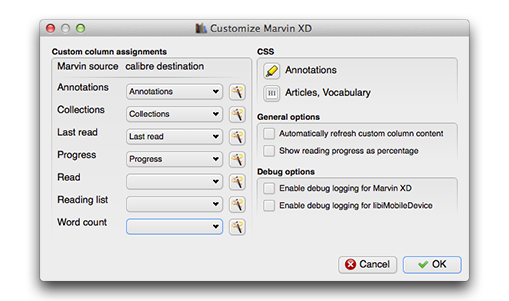
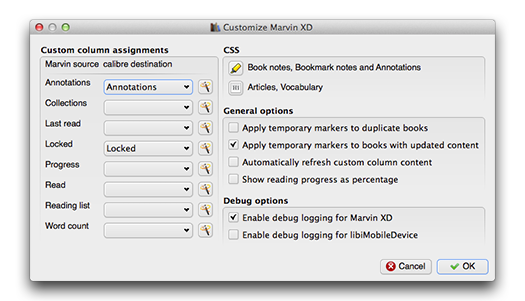
Edit config dialog wording for CSS appearance. Updated Help file.

Changed region(s): [[0.0295, 0.0598, 0.9725, 0.9867]]

diff --git a/help/help.html b/help/help.html
@@ -89,18 +89,24 @@
 	font-size: small;
 	text-align: left;
     }
-    tr.gray {
-        background-color: #E5E5E5;
-        font-family:"Lucida Console", Monaco, monospace;
-        font-size:smaller;
-    }
-    tr.magenta {
-        background-color: #FF99E5;
+    tr.dark_gray {
+        background-color: #989898;
+		color:white;
         font-family:"Lucida Console", Monaco, monospace;
         font-size:smaller;
     }
     tr.green {
         background-color: #99FF99;
+        font-family:"Lucida Console", Monaco, monospace;
+        font-size:smaller;
+    }
+    tr.light_gray {
+        background-color: #D8D8D8;
+        font-family:"Lucida Console", Monaco, monospace;
+        font-size:smaller;
+    }
+    tr.magenta {
+        background-color: #FF99E5;
         font-family:"Lucida Console", Monaco, monospace;
         font-size:smaller;
     }
@@ -162,10 +168,10 @@
 		  <li>Calculate word counts for one or multiple books.</li>
 		  <li>Generate Deep View  lists of names, dates, events and places.</li>
 		  <li>Show reading progress, date last read.</li>
-		  <li>Manage <strong>New</strong>, <strong>Reading list</strong> and <strong>Read</strong> flags, and Locked status of books in your Marvin library.</li>
+		  <li>Manage <strong>Ratings, New</strong>, <strong>Reading list</strong> and <strong>Read</strong> flags, and Locked status of books in your Marvin library.</li>
 		  <li>View annotations, vocabulary words, Deep View content and pinned articles.</li>
 		  <li>Manage collection assignments, including creating, renaming and deleting collections.</li>
-		  <li>Transfer reading progress,  last read and word counts from Marvin to calibre custom columns.</li>
+		  <li>Transfer reading progress,  last read, locked and word counts from Marvin to calibre custom columns.</li>
 	  </ul>
 	</div>
   <hr />
@@ -175,11 +181,13 @@
 <div class="topic">
 <h3><a name="configuration" id="configuration"></a>2. <a href="#toc">Configuration</a></h3>
 <p>Open the context menu for the Marvin XD icon (right-click the icon or click the down arrow), then click <strong>Customize plugin</strong> to display the <strong>Customize Marvin XD</strong> dialog.<img src="images/config.png" alt="" class="inline" /></p>
-<p>The<strong> Custom columns assignments</strong> section connects  Marvin  details to custom columns in calibre. For example, by selecting a custom column in calibre for Collections, you can synchronize collection assignments between calibre and Marvin. You may  specify custom columns for <em>Annotations</em>, <em>Collections</em>, <em>Last read</em>, <em>Progress</em>, <em>Read</em>, <em>Reading list</em> and <em>Word count</em>, enabling you to synchronize those Marvin details to calibre.</p>
+<p>The<strong> Custom column assignments</strong> section connects  Marvin  details to custom columns in calibre. For example, by selecting a custom column in calibre for Collections, you can synchronize collection assignments between calibre and Marvin. You may  specify custom columns for <em>Annotations</em>, <em>Collections</em>, <em>Last read</em>, <em>Locked, Progress</em>, <em>Read</em>, <em>Reading list</em> and <em>Word count</em>.</p>
 <p>Clicking the combo box presents a list of existing custom columns eligible for use with the associated Marvin details.</p>
 <p>Clicking the Wizard button leads you through the steps to create a new custom column, or renames an existing custom column.</p>
 <p><strong>CSS:</strong> Click the <strong>Annotations</strong> button to customize the CSS applied to Annotations. Click the <strong>Articles, Vocabulary</strong> button to customize the CSS applied to Articles and Vocabulary.</p>
-<p><strong>General options:</strong> <strong>Automatically refresh custom column content</strong>: When checked,  enabled custom column content will be synchronized upon opening Marvin XD for all books installed in Marvin that are also in your calibre library.<br />
+<p><strong>General options:</strong> <strong>Apply temporary markers to duplicate books</strong>: When checked, books in Marvin determined to be duplicates of books in calibre will be marked.<br />
+  <strong>Apply temporary markers to books with updated content</strong>: When checked, books with matching metadata but differing content will be marked.<br />
+  <strong>Automatically refresh custom column content</strong>: When checked,  enabled custom column content will be synchronized upon opening Marvin XD for all books installed in Marvin that are also in your calibre library.<br />
   <strong>Show reading progress as percentage: </strong>When checked<strong>,</strong> displays reading progress as a numeric percentage. When unchecked, reading progress is shown as a series of dots.</p> 
 <p><strong>Debug options: Enable debug logging for Marvin XD, </strong><strong>Enable debug logging for libiMobileDevice</strong>: If you are having a problem with the plugin, you may be asked to enable one or both of these checkboxes, then restart calibre in debug mode from a terminal window to generate a debug log. </p>
 <p>To start calibre in debug mode, type <tt>calibre-debug -g</tt> in a terminal window.</p>
@@ -197,16 +205,6 @@
       <td>in calibre library</td>
       <td>Match status</td>
     </tr>
-    <tr class="gray">
-      <td>Gray</td>
-      <td class="checked">&#x2713;</td>
-      <td>Installed in calibre and Marvin, no match found.</td>
-    </tr>
-    <tr class="magenta">
-      <td>Magenta</td>
-      <td class="checked">multiple</td>
-      <td>Installed in calibre and Marvin, more than one copy in calibre.</td>
-    </tr>
     <tr class="green">
       <td>Green</td>
       <td class="checked">&#x2713;</td>
@@ -217,20 +215,35 @@
       <td class="checked">&#x2713;</td>
       <td>Installed in calibre and Marvin, some metadata differences.</td>
     </tr>
+    <tr class="magenta">
+      <td>Magenta</td>
+      <td class="checked">multiple</td>
+      <td>Installed in calibre and Marvin, more than one copy in calibre.</td>
+    </tr>
     <tr class="orange">
       <td>Orange</td>
       <td class="checked">&#x2713;</td>
       <td>Installed in calibre and Marvin, more than one copy in Marvin.</td>
     </tr>
+    <tr class="light_gray">
+      <td>Light Gray</td>
+      <td class="checked">&#x2713;</td>
+      <td>Installed in calibre and Marvin, but no match found.</td>
+    </tr>
+    <tr class="dark_gray">
+      <td>Dark Gray</td>
+      <td class="checked">&#x2713;</td>
+      <td>Installed in calibre and Marvin, book contents updated in Marvin.</td>
+    </tr>
     <tr class="white">
       <td>White</td>
       <td class="checked">&nbsp;</td>
-      <td>Installed in Marvin. The book is not in your calibre library.</td>
+      <td>Installed in Marvin only.</td>
     </tr>
     <tr class="red">
       <td>Red</td>
       <td class="checked">&nbsp;</td>
-      <td>More than one copy in Marvin. The book is not in your calibre library.</td>
+      <td>More than one copy installed in Marvin.</td>
     </tr>
   </table>
   <p>Click <img src="images/hide_matches.png" alt="" align="absmiddle" /> to return to the regular display listing.</p>
@@ -240,15 +253,15 @@
 <div class="topic">
 <h3><a name="scenarios" id="scenarios"></a>4. <a href="#toc">FAQs</a></h3>
 <div class="usage">
-  <p class="usage-topic">How does the Marvin XD plugin relate to the iOS reader applications driver? Do I still need it?</p>
-<p class="usage-explanation">Yes, you still need the iOS reader applications driver configured with Marvin as your preferred iOS reader application. Marvin XD communicates with the regular driver to accomplish its tasks. Marvin XD offers many more features than a conventional device driver. You should be able to accomplish all Marvin tasks through Marvin XD.</p>
+  <p class="usage-topic">How does the Marvin XD plugin relate to the iOS reader applications driver? Do I need both plugins?</p>
+<p class="usage-explanation">Yes, you  need the iOS reader applications driver (iOSRA) configured with Marvin as your preferred iOS reader application. Marvin XD communicates with the iOSRA driver to accomplish its tasks. Marvin XD offers many more features than a conventional device driver. You should be able to accomplish all Marvin tasks through Marvin XD.</p>
 </div>
 <hr />
 
 <div class="usage">
 <p class="usage-topic">I see lots of books with yellow backgrounds when showing match status. Is that bad?</p>
-<p class="usage-explanation">No, that's good! Yellow means that the book content is the same between calibre and Marvin, but there are some metadata differences. The differences could be as minor as a difference in the title, or perhaps you have applied a new cover in Marvin. </p>
-<p class="usage-explanation">To compare the metadata, double-click the title to open the Metadata window. To make the books match exactly, choose which metadata you want to use, and apply it. The changes are applied immediately.</p>
+<p class="usage-explanation">No, that's good! Yellow means that the book content is the same between calibre and Marvin, but there are some metadata differences. The differences could be as minor as a difference in the title, or perhaps an updated cover. </p>
+<p class="usage-explanation">To compare the metadata, double-click the title to open the Metadata window. To make the books match exactly, choose which metadata you want to use, and apply it. Changes are applied immediately.</p>
 </div>
 <hr />
 
@@ -321,7 +334,7 @@
   </tr>
   <tr class="action">
     <td>Add annotations to a  custom column</td>
-    <td>Fetch  annotations from Marvin, apply to  custom column specified for Annotations (in configuration dialog). Applies to selected books.</td>
+    <td>Fetch  notes and annotations from Marvin, apply to  custom column specified for Annotations (in configuration dialog). Applies to selected books.</td>
     <td><ul>
       <li>Annotations context menu</li>
     </ul></td>
@@ -342,7 +355,7 @@
     </ul></td>
   </tr>
   <tr class="action">
-    <td>Apply last read date to a calibre  column</td>
+    <td>Apply last read date to a calibre column</td>
     <td>Apply last read date to custom column specified for Last read (in configuration dialog). Applies to selected books.</td>
     <td><ul>
       <li>Last read double-click</li>
@@ -350,7 +363,14 @@
     </ul></td>
   </tr>
   <tr class="action">
-    <td>Apply reading progress to a  custom column</td>
+    <td>Apply rating</td>
+    <td>Apply rating (0-5 stars) to selected books. If book is matched in calibre, rating will also be applied to calibre metadata.</td>
+    <td><ul>
+      <li>Rating context menu</li>
+    </ul></td>
+  </tr>
+  <tr class="action">
+    <td>Apply reading progress to a custom column</td>
     <td>Apply reading progress to custom column specified for Progress (in configuration dialog). Applies to selected books. Books flagged as <strong>New</strong> will have no reading progress; books flagged as <strong>Read</strong> will have 100% reading progress.</td>
     <td><ul>
       <li>Progress double-click</li>
@@ -514,7 +534,7 @@
   </tr>
   <tr class="action">
     <td>Refresh  custom columns</td>
-    <td>Apply contents of Progress, Last read and Annotations columns to  custom columns (assigned in configuration dialog) for selected books. You may also enable automatic refresh of custom column content in the plugin's configuration dialog.</td>
+    <td>Apply contents of Progress, Last read, Locked and Annotations columns to  custom columns (assigned in configuration dialog) for selected books. You may also enable automatic refresh of custom column content in the plugin's configuration dialog.</td>
     <td><ul>
       <li>Main window button</li>
       <li>Configuration dialog</li>

diff --git a/config.py b/config.py
@@ -286,7 +286,7 @@ class ConfigWidget(QWidget, Logger):
         self.cfg_annotations_appearance_toolbutton.setIcon(self.annotations_icon)
         self.cfg_annotations_appearance_toolbutton.clicked.connect(self.configure_appearance)
         self.cfg_css_options_qgl.addWidget(self.cfg_annotations_appearance_toolbutton, current_row, 0)
-        self.cfg_annotations_label = ClickableQLabel("Annotations")
+        self.cfg_annotations_label = ClickableQLabel("Book notes, Bookmark notes and Annotations")
         self.connect(self.cfg_annotations_label, SIGNAL('clicked()'), self.configure_appearance)
         self.cfg_css_options_qgl.addWidget(self.cfg_annotations_label, current_row, 1)
         current_row += 1
